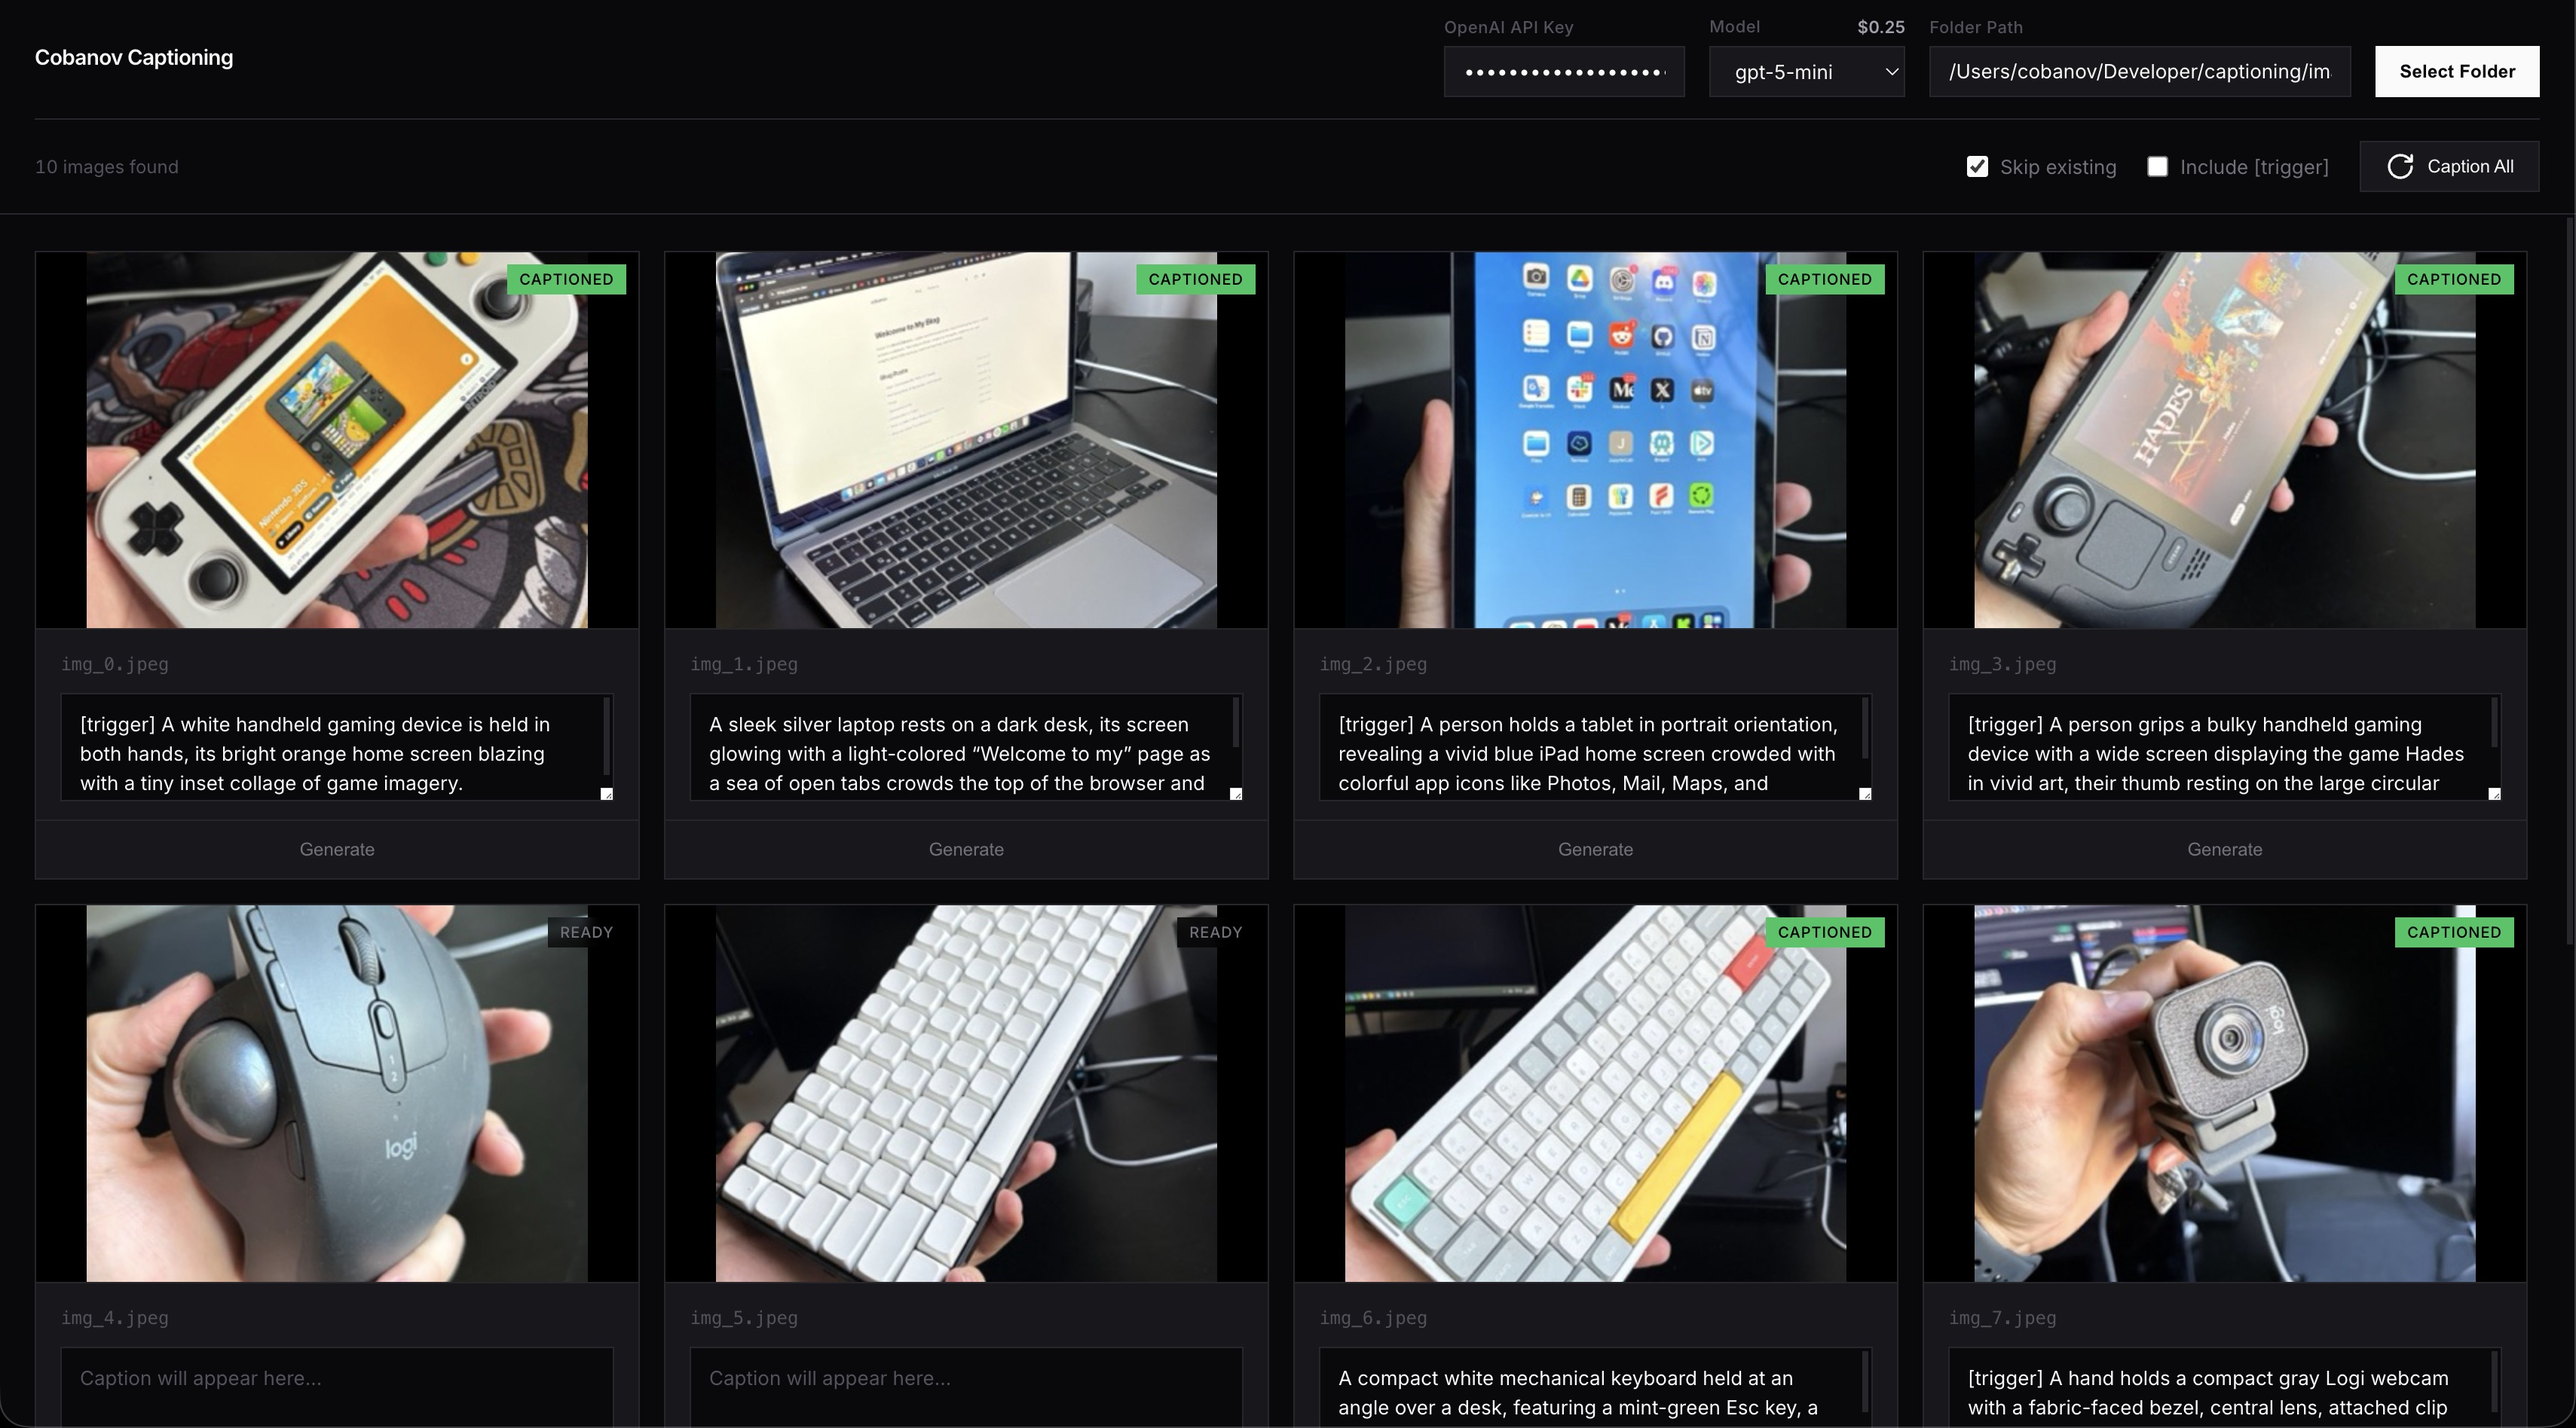
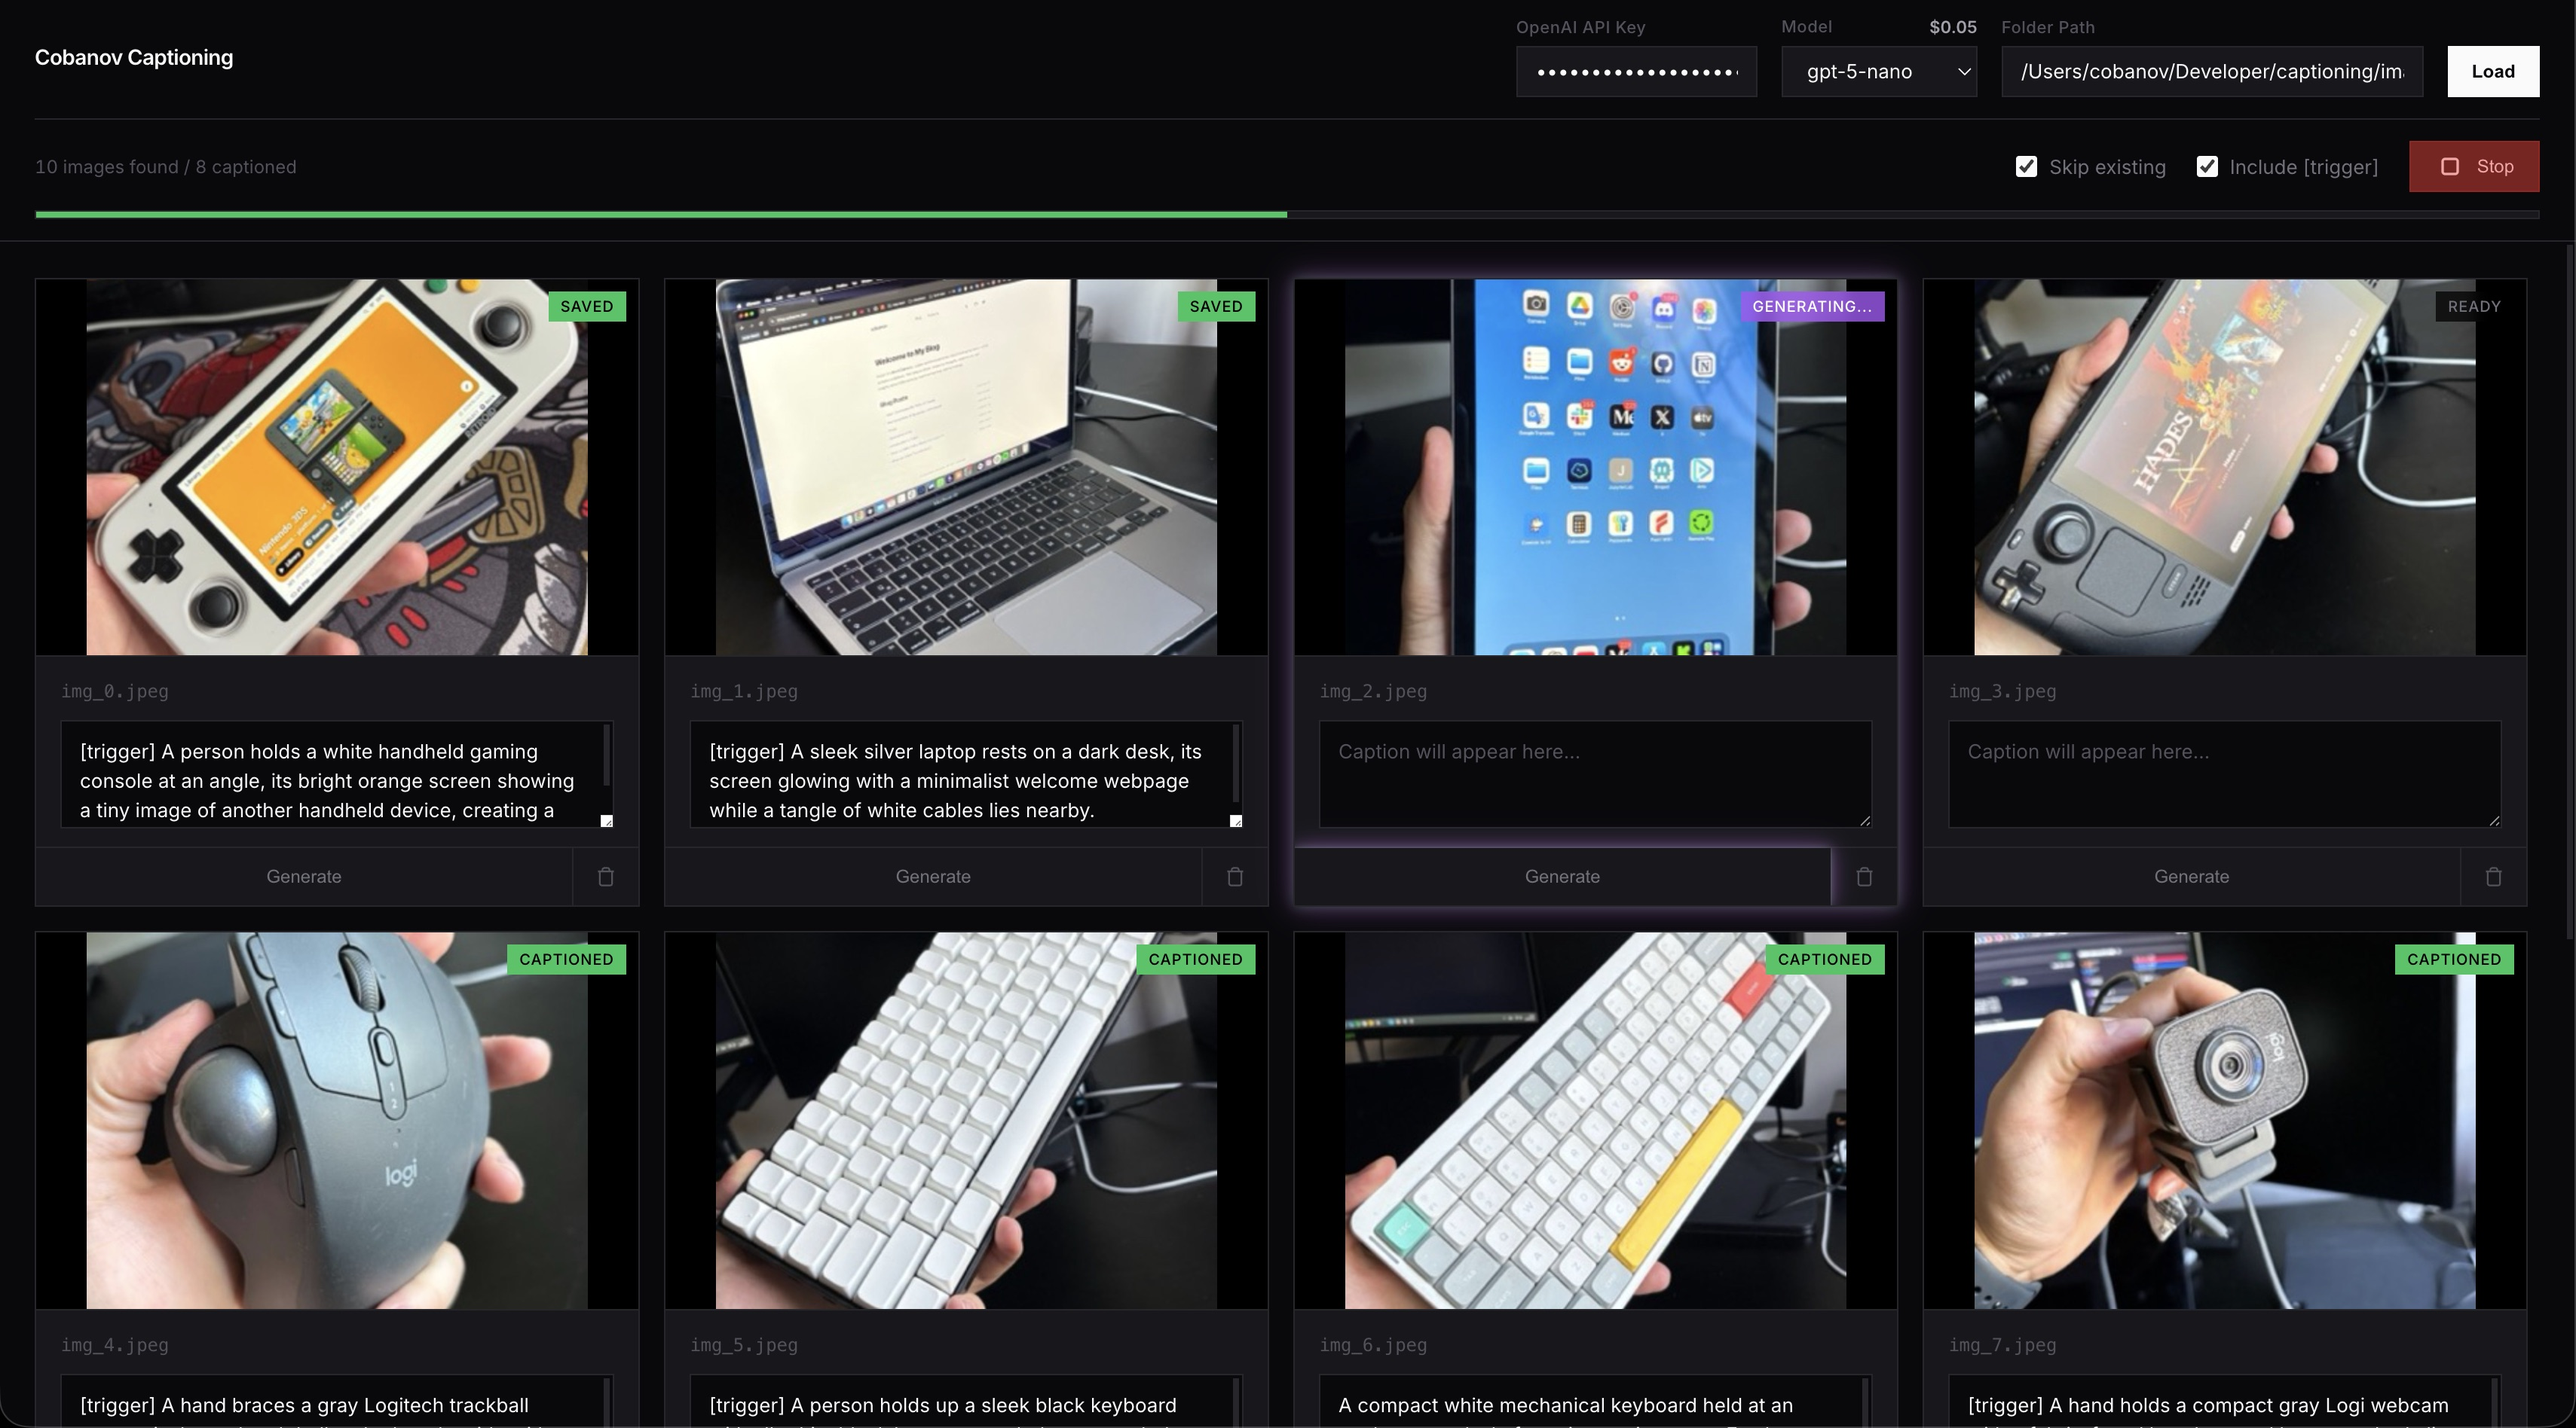
feat: implement ability to stop batch captioning process and improve responsive design

diff --git a/static/style.css b/static/style.css
@@ -206,6 +206,26 @@ select {
     border-color: #3f3f46;
 }
 
+.stop-btn {
+    background-color: #7f1d1d;
+    color: #fca5a5;
+    border: 1px solid #991b1b;
+    padding: 0 1rem;
+    height: 34px;
+    cursor: pointer;
+    font-weight: 500;
+    display: flex;
+    align-items: center;
+    gap: 0.5rem;
+    font-size: 0.75rem;
+    transition: all 0.15s ease;
+}
+
+.stop-btn:hover {
+    background-color: #991b1b;
+    border-color: #b91c1c;
+}
+
 /* ========== MAIN CONTENT ========== */
 main {
     flex: 1;
@@ -524,3 +544,209 @@ textarea:focus {
             0 0 24px rgba(59, 130, 246, 0.2);
     }
 }
+
+/* ========== MOBILE RESPONSIVE ========== */
+
+/* Tablet and below */
+@media (max-width: 1024px) {
+    .header-content {
+        flex-wrap: wrap;
+        gap: 1rem;
+    }
+    
+    .settings-bar {
+        flex-wrap: wrap;
+        justify-content: flex-start;
+    }
+    
+    #folderPath {
+        width: 200px;
+    }
+}
+
+/* Mobile landscape and below */
+@media (max-width: 768px) {
+    header {
+        padding: 1rem;
+    }
+    
+    .header-content {
+        flex-direction: column;
+        align-items: stretch;
+        gap: 1rem;
+    }
+    
+    h1 {
+        text-align: center;
+        font-size: 1rem;
+    }
+    
+    .settings-bar {
+        flex-direction: column;
+        align-items: stretch;
+        gap: 0.75rem;
+    }
+    
+    .input-group {
+        width: 100%;
+    }
+    
+    #apiKey, #folderPath, select {
+        width: 100%;
+    }
+    
+    .primary-btn {
+        width: 100%;
+        height: 44px;
+        font-size: 0.875rem;
+    }
+    
+    .action-bar {
+        flex-direction: column;
+        gap: 1rem;
+        align-items: stretch;
+    }
+    
+    .stats {
+        text-align: center;
+    }
+    
+    .controls {
+        flex-direction: column;
+        gap: 0.75rem;
+        align-items: stretch;
+    }
+    
+    .checkbox-label {
+        justify-content: center;
+        padding: 0.5rem;
+    }
+    
+    .accent-btn, .stop-btn {
+        width: 100%;
+        height: 44px;
+        justify-content: center;
+    }
+    
+    main {
+        padding: 1rem;
+    }
+    
+    .image-grid {
+        grid-template-columns: 1fr;
+        gap: 1rem;
+    }
+    
+    .empty-state {
+        padding: 2rem 1rem;
+    }
+    
+    .card-body {
+        padding: 0.875rem;
+    }
+    
+    textarea {
+        min-height: 80px;
+        font-size: 16px; /* Prevents zoom on iOS */
+    }
+    
+    .card-btn {
+        padding: 1rem;
+        font-size: 0.875rem;
+    }
+    
+    .card-btn.delete-btn {
+        width: 56px;
+    }
+    
+    .toast {
+        left: 1rem;
+        right: 1rem;
+        transform: none;
+        text-align: center;
+    }
+    
+    @keyframes slideUp {
+        from { opacity: 0; transform: translateY(10px); }
+        to { opacity: 1; transform: translateY(0); }
+    }
+}
+
+/* Small mobile */
+@media (max-width: 480px) {
+    header {
+        padding: 0.75rem;
+    }
+    
+    h1 {
+        font-size: 0.875rem;
+    }
+    
+    .input-group label {
+        font-size: 0.625rem;
+    }
+    
+    input, select {
+        height: 40px;
+        font-size: 16px; /* Prevents zoom on iOS */
+    }
+    
+    .primary-btn {
+        height: 48px;
+    }
+    
+    .accent-btn, .stop-btn {
+        height: 48px;
+    }
+    
+    .img-container {
+        aspect-ratio: 4 / 3;
+    }
+    
+    .filename {
+        font-size: 0.6875rem;
+    }
+    
+    .progress-text {
+        font-size: 0.6875rem;
+    }
+}
+
+/* Touch device optimizations */
+@media (hover: none) and (pointer: coarse) {
+    .card-btn:hover {
+        background-color: transparent;
+    }
+    
+    .card-btn:active {
+        background-color: var(--surface-hover);
+    }
+    
+    .card-btn.generate-btn:hover {
+        box-shadow: none;
+    }
+    
+    .card-btn.generate-btn:active {
+        box-shadow: 
+            0 0 4px rgba(168, 85, 247, 0.4),
+            0 0 8px rgba(59, 130, 246, 0.3),
+            0 0 12px rgba(16, 185, 129, 0.2);
+    }
+    
+    .image-card:hover {
+        border-color: var(--border-color);
+    }
+    
+    .accent-btn:hover, .stop-btn:hover {
+        background-color: var(--surface-color);
+    }
+    
+    .accent-btn:active {
+        background-color: var(--surface-hover);
+    }
+    
+    .stop-btn:active {
+        background-color: #991b1b;
+    }
+}
+

diff --git a/static/app.js b/static/app.js
@@ -1,6 +1,7 @@
 const state = {
     images: [],
-    processing: false
+    processing: false,
+    stopRequested: false
 };
 
 // Elements
@@ -12,6 +13,7 @@ const grid = document.getElementById('grid');
 const actionBar = document.getElementById('actionBar');
 const imageCount = document.getElementById('imageCount');
 const captionAllBtn = document.getElementById('captionAllBtn');
+const stopBtn = document.getElementById('stopBtn');
 const skipExistingCheckbox = document.getElementById('skipExisting');
 const includeTriggerCheckbox = document.getElementById('includeTrigger');
 const modelPriceSpan = document.getElementById('modelPrice');
@@ -329,8 +331,9 @@ captionAllBtn.addEventListener('click', async () => {
     
     if (state.processing) return;
     state.processing = true;
-    captionAllBtn.disabled = true;
-    captionAllBtn.innerHTML = 'Processing...';
+    state.stopRequested = false;
+    captionAllBtn.classList.add('hidden');
+    stopBtn.classList.remove('hidden');
     
     const skipExisting = skipExistingCheckbox.checked;
     
@@ -346,6 +349,12 @@ captionAllBtn.addEventListener('click', async () => {
     
     try {
         for (let i = 0; i < state.images.length; i++) {
+            // Check if stop was requested
+            if (state.stopRequested) {
+                showToast(`Stopped after ${completed} / ${total} images`, '');
+                break;
+            }
+            
             const img = state.images[i];
             
             // Skip logic
@@ -369,18 +378,30 @@ captionAllBtn.addEventListener('click', async () => {
             progressText.textContent = `${completed} / ${total}`;
         }
         
-        // Success notification
-        showToast(`All ${total} images captioned successfully!`, 'success');
+        // Success notification (only if not stopped)
+        if (!state.stopRequested) {
+            showToast(`All ${total} images captioned successfully!`, 'success');
+        }
         
     } catch (err) {
         console.error("Batch process error", err);
         showToast('Error during batch processing', '');
     } finally {
         state.processing = false;
-        captionAllBtn.disabled = false;
-        captionAllBtn.innerHTML = 'Caption All';
+        state.stopRequested = false;
+        stopBtn.classList.add('hidden');
+        stopBtn.disabled = false;
+        stopBtn.innerHTML = `<svg width="20" height="20" viewBox="0 0 24 24" fill="none" stroke="currentColor" stroke-width="2" stroke-linecap="round" stroke-linejoin="round"><rect x="6" y="6" width="12" height="12" rx="2"/></svg> Stop`;
+        captionAllBtn.classList.remove('hidden');
         
         // Update final progress
         updateProgress();
     }
+});
+
+// Stop button handler
+stopBtn.addEventListener('click', () => {
+    state.stopRequested = true;
+    stopBtn.disabled = true;
+    stopBtn.innerHTML = 'Stopping...';
 });

diff --git a/static/index.html b/static/index.html
@@ -56,6 +56,10 @@
                         <svg width="20" height="20" viewBox="0 0 24 24" fill="none" stroke="currentColor" stroke-width="2" stroke-linecap="round" stroke-linejoin="round"><path d="M21 12a9 9 0 1 1-9-9c2.52 0 4.93 1 6.74 2.74L21 8"/><path d="M21 3v5h-5"/></svg>
                         Caption All
                     </button>
+                    <button id="stopBtn" class="stop-btn hidden">
+                        <svg width="20" height="20" viewBox="0 0 24 24" fill="none" stroke="currentColor" stroke-width="2" stroke-linecap="round" stroke-linejoin="round"><rect x="6" y="6" width="12" height="12" rx="2"/></svg>
+                        Stop
+                    </button>
                 </div>
             </div>
             <div class="progress-bar hidden" id="progressBar">
